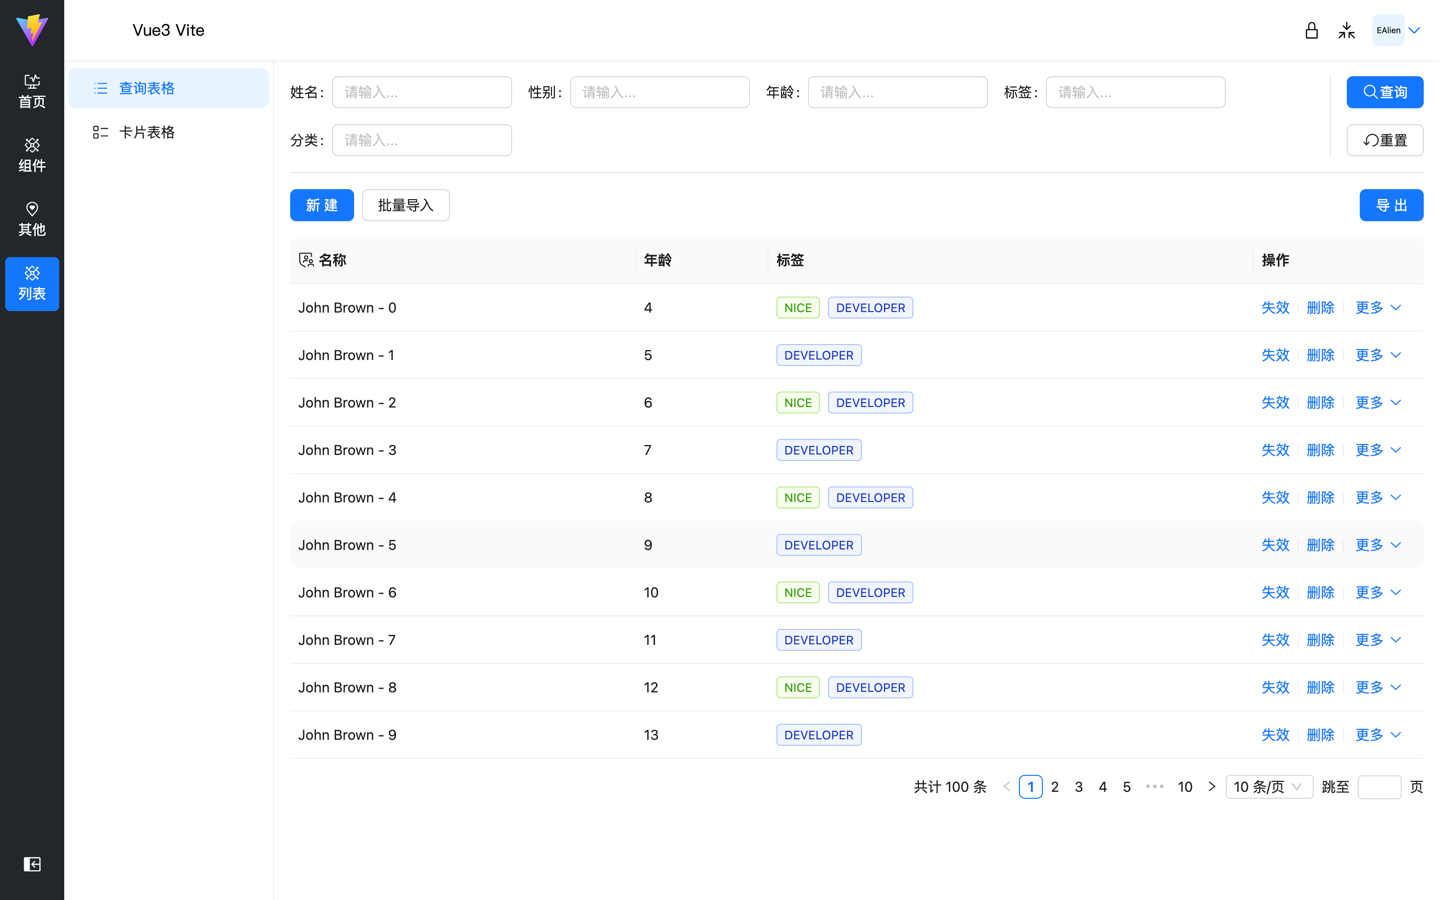
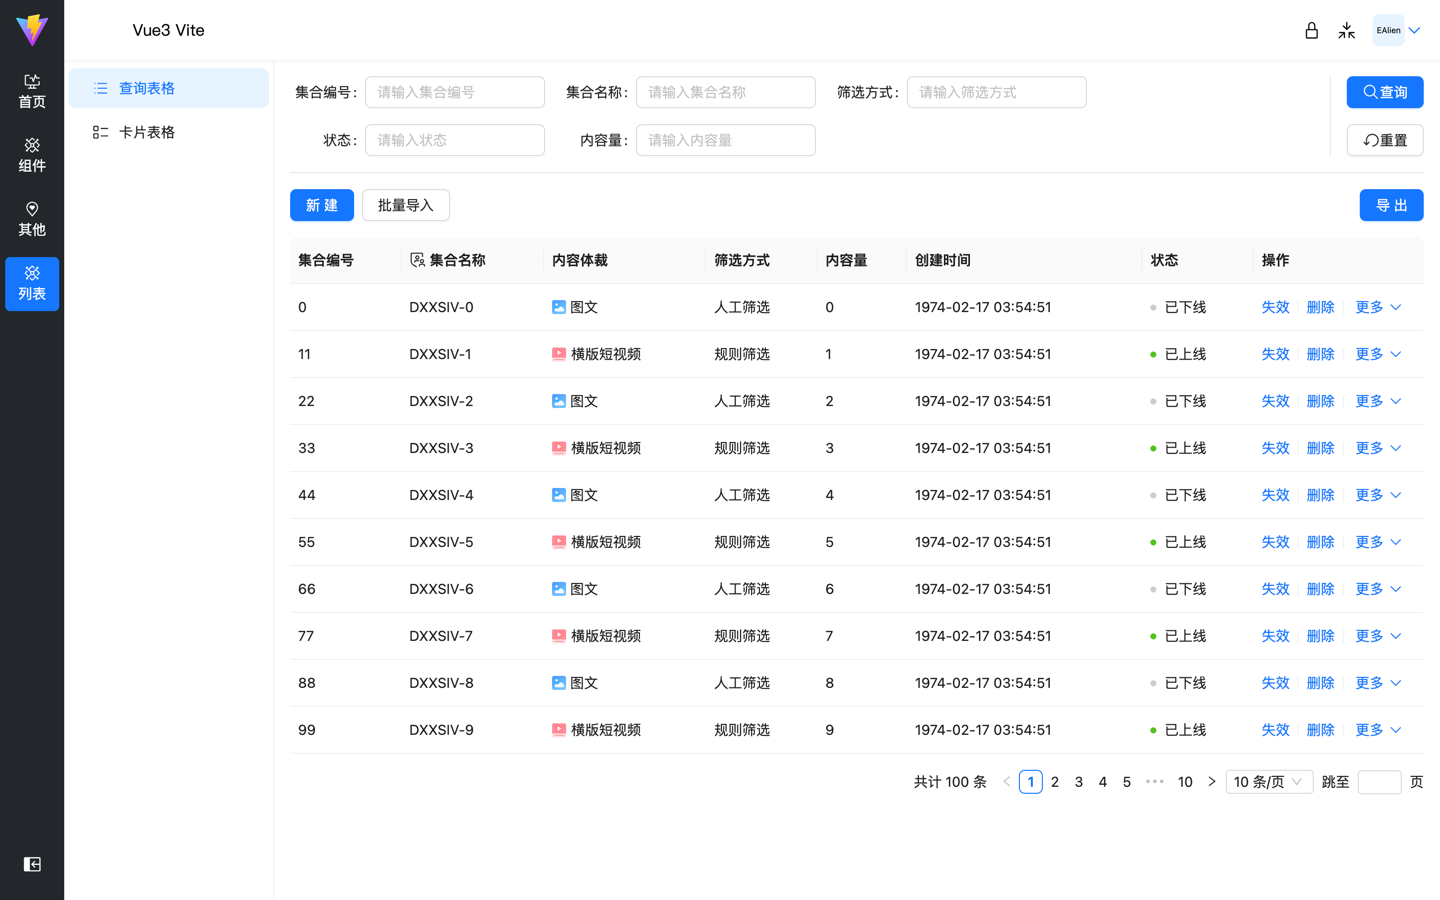
fix: searchbox对齐，下边距。slot穿透问题

diff --git a/src/pages/list/search-list/index.vue b/src/pages/list/search-list/index.vue
@@ -2,37 +2,49 @@
   import { ref } from 'vue'
   import SearchBox from '@/components/SearchBox/index.vue'
   import ProTable from '@/components/ProTable/index.vue'
+  import { tableData } from '@/mock/data.js'
 
   const columns = [
     {
-      title: '名称',
+      title: '集合编号',
+      dataIndex: 'no',
+      key: 'no'
+    },
+    {
+      title: '集合名称',
       dataIndex: 'name',
       key: 'name'
     },
     {
-      title: '年龄',
-      dataIndex: 'age',
-      key: 'age'
+      title: '内容体裁',
+      dataIndex: 'type',
+      key: 'type'
     },
     {
-      title: '标签',
-      dataIndex: 'tags',
-      key: 'tags'
+      title: '筛选方式',
+      dataIndex: 'fs',
+      key: 'fs'
+    },
+    {
+      title: '内容量',
+      dataIndex: 'num',
+      key: 'num'
+    },
+    {
+      title: '创建时间',
+      dataIndex: 'createTime',
+      key: 'createTime'
+    },
+    {
+      title: '状态',
+      dataIndex: 'status',
+      key: 'status'
     },
     { title: '操作', key: 'action', width: '170px' }
   ]
 
-  const list = ref([])
-  list.value = Array.from({ length: 100 }, (it, index) => ({
-    key: index,
-    name: `John Brown - ${index}`,
-    age: index + 4,
-    address: `New York No. ${index} Lake Park`,
-    tags: index % 2 === 0 ? ['nice', 'developer'] : ['developer']
-  }))
-
   // 必须初始化，否则Form.useForm 无法resetFields
-  const searchForm = ref({ name: null, sex: null, age: null, tag: null, class: null })
+  const searchForm = ref({ no: null, name: null, fs: null, status: null, num: null })
 
   const handleSearch = () => {
     console.log(searchForm.value)
@@ -44,35 +56,38 @@
     :model="searchForm"
     @search="handleSearch"
   >
-    <a-form layout="inline">
-      <a-form-item label="姓名">
+    <a-form
+      layout="inline"
+      :label-col="{ style: { width: '75px' } }"
+    >
+      <a-form-item label="集合编号">
         <a-input
-          placeholder="请输入..."
+          placeholder="请输入集合编号"
+          v-model:value="searchForm.no"
+        />
+      </a-form-item>
+      <a-form-item label="集合名称">
+        <a-input
+          placeholder="请输入集合名称"
           v-model:value="searchForm.name"
         />
       </a-form-item>
-      <a-form-item label="性别">
+      <a-form-item label="筛选方式">
         <a-input
-          placeholder="请输入..."
-          v-model:value="searchForm.sex"
+          placeholder="请输入筛选方式"
+          v-model:value="searchForm.fs"
         />
       </a-form-item>
-      <a-form-item label="年龄">
+      <a-form-item label="状态">
         <a-input
-          placeholder="请输入..."
-          v-model:value="searchForm.age"
+          placeholder="请输入状态"
+          v-model:value="searchForm.status"
         />
       </a-form-item>
-      <a-form-item label="标签">
+      <a-form-item label="内容量">
         <a-input
-          placeholder="请输入..."
-          v-model:value="searchForm.tag"
-        />
-      </a-form-item>
-      <a-form-item label="分类">
-        <a-input
-          placeholder="请输入..."
-          v-model:value="searchForm.calss"
+          placeholder="请输入内容量"
+          v-model:value="searchForm.num"
         />
       </a-form-item>
     </a-form>
@@ -88,25 +103,33 @@
   </SearchBox>
 
   <ProTable
-    :data-source="list"
+    :data-source="tableData"
     :columns="columns"
   >
-    <template #headerCell="{ column }">
+    <template #headerCell="{ column, title }">
       <template v-if="column.key === 'name'">
         <i class="i-carbon-group-security inline-block v-sub" />
-        名称
+        {{ title }}
       </template>
     </template>
 
     <template #bodyCell="{ column, record }">
-      <template v-if="column.key === 'tags'">
-        <a-tag
-          v-for="tag in record.tags"
-          :key="tag"
-          :color="tag === 'loser' ? 'volcano' : tag.length > 5 ? 'geekblue' : 'green'"
-        >
-          {{ tag.toUpperCase() }}
-        </a-tag>
+      <template v-if="column.key === 'type'">
+        <div class="flex items-center">
+          <img
+            :src="record.icon"
+            class="mr4px"
+            alt=""
+          />
+          <span>{{ record.type }}</span>
+        </div>
+      </template>
+
+      <template v-if="column.key === 'status'">
+        <a-badge
+          :color="record.status === '已下线' ? '#cccccc' : 'green'"
+          :text="record.status"
+        />
       </template>
 
       <template v-if="column.key === 'action'">

diff --git a/src/mock/data.js b/src/mock/data.js
@@ -1,0 +1,20 @@
+const typeEnum = {
+  img: 'https://p3-armor.byteimg.com/tos-cn-i-49unhts6dw/581b17753093199839f2e327e726b157.svg~tplv-49unhts6dw-image.image',
+  hVideo:
+    'https://p3-armor.byteimg.com/tos-cn-i-49unhts6dw/77721e365eb2ab786c889682cbc721c1.svg~tplv-49unhts6dw-image.image',
+  vVideo:
+    'https://p3-armor.byteimg.com/tos-cn-i-49unhts6dw/ea8b09190046da0ea7e070d83c5d1731.svg~tplv-49unhts6dw-image.image'
+}
+
+export const tableData = Array.from({ length: 100 }, (it, index) => {
+  return {
+    no: index * 11,
+    name: `DXXSIV-${index}`,
+    type: index % 2 === 0 ? '图文' : '横版短视频',
+    icon: index % 2 === 0 ? typeEnum.img : typeEnum.hVideo,
+    fs: index % 2 === 0 ? '人工筛选' : '规则筛选',
+    num: index,
+    createTime: '1974-02-17 03:54:51',
+    status: index % 2 === 0 ? '已下线' : '已上线'
+  }
+})

diff --git a/src/components/ProTable/index.vue b/src/components/ProTable/index.vue
@@ -14,11 +14,11 @@
     <template
       v-for="(_, key, i) in slots"
       :key="i"
-      v-slot:[key]="{ text, record, index, column, filtered, indent, expanded }"
+      v-slot:[key]="{ text, title, record, index, column, filtered, indent, expanded }"
     >
       <slot
         :name="key"
-        v-bind="{ text, record, index, column, filtered, indent, expanded }"
+        v-bind="{ text, title, record, index, column, filtered, indent, expanded }"
       ></slot>
     </template>
   </a-table>

diff --git a/src/components/SearchBox/index.vue b/src/components/SearchBox/index.vue
@@ -25,7 +25,7 @@
 
 <template>
   <div class="search_box">
-    <div class="search_form">
+    <div class="search_form flex-1">
       <slot />
     </div>
 
@@ -80,6 +80,7 @@
   .right_btn {
     height: 80px;
     padding-left: 16px;
+    margin-bottom: 16px;
     border-left: 1px solid rgb(229, 230, 235);
   }
 </style>

diff --git a/README.md b/README.md
@@ -28,5 +28,4 @@
 - smooth-scrollbar自定义滚动条（自定义指令)
 
 ### import.meta.env 访问环境变量，自定义 VITE\_ 开头
-
 ![img.png](public/img.png)
